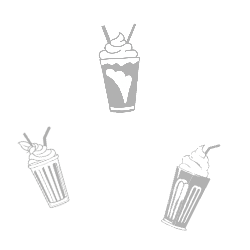
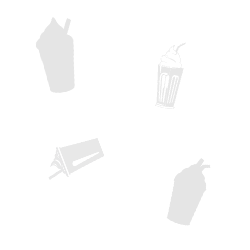
add about section

diff --git a/dist/main.js b/dist/main.js
@@ -1,1 +1,1 @@
-(()=>{"use strict";var n,e,t,r,o,a,i,c,s,l,p,u,f,d,h={208:(n,e,t)=>{t.d(e,{A:()=>f});var r=t(601),o=t.n(r),a=t(314),i=t.n(a),c=t(417),s=t.n(c),l=new URL(t(501),t.b),p=i()(o()),u=s()(l);p.push([n.id,`body {\n  margin: 0;\n  padding: 0;\n  box-sizing: border-box;\n  background-image: url(${u});\n  background-size: 10%;\n  display: flex;\n  flex-direction: column;\n  height: 100vh;\n  overflow-x: hidden;\n}\nheader {\n  background-color: #f57eb0;\n  flex: 1;\n  display: flex;\n  flex-direction: column;\n  justify-content: center;\n  align-items: center;\n}\nnav {\n  position: absolute;\n  display: flex;\n  justify-content: center;\n  align-items: center;\n  gap: 80px;\n  top: 170px;\n}\n\n.logo-container {\n  margin-bottom: 20px;\n}\n\nbutton {\n  font-family: "Gorditas", serif;\n  height: 70px;\n  width: 160px;\n  font-size: 38px;\n  border: none;\n  cursor: pointer;\n  background-color: #fff;\n  color: #eb4b8e;\n  border: 6px solid #ffa8a8;\n  transition-property: translate;\n  transition-duration: 0.1s;\n}\n\nbutton:hover {\n  translate: 0px -2px;\n  color: #e8156d;\n}\n\n#content {\n  font-family: "Gorditas", serif;\n  flex: 4;\n  display: flex;\n  flex-direction: column;\n}\n\n.hero {\n  margin-top: 120px;\n  width: 100vw;\n  height: 200px;\n  background-color: #f3a2d2;\n  display: flex;\n  align-items: center;\n  justify-content: center;\n  font-size: 40px;\n  color: #fff;\n}\n\n.hero > img:nth-child(2) {\n  /* border: 10px solid white; */\n  margin-left: 30px;\n  translate: 0px 40px;\n}\n\n.tilt-right {\n  transform: rotate(2deg);\n}\n\n.tilt-left {\n  transform: rotate(-3deg);\n}\n\n.rounded {\n  border-radius: 500px;\n}\n\n.promo-container {\n  background-color: #69ebfd;\n  height: 80px;\n  z-index: -1;\n  font-size: 20px;\n  margin-top: 60px;\n  display: flex;\n  align-items: center;\n  transform: rotate(-2deg);\n  width: 101vw;\n  translate: -10px 0px;\n}\n.promo-container > p {\n  flex: 1;\n  display: flex;\n  justify-content: center;\n  padding-left: 50px;\n}\n\n.promo-container::after {\n  content: ".";\n  display: block;\n  flex: 1;\n  color: #69ebfd;\n}\n`,""]);const f=p},314:n=>{n.exports=function(n){var e=[];return e.toString=function(){return this.map((function(e){var t="",r=void 0!==e[5];return e[4]&&(t+="@supports (".concat(e[4],") {")),e[2]&&(t+="@media ".concat(e[2]," {")),r&&(t+="@layer".concat(e[5].length>0?" ".concat(e[5]):""," {")),t+=n(e),r&&(t+="}"),e[2]&&(t+="}"),e[4]&&(t+="}"),t})).join("")},e.i=function(n,t,r,o,a){"string"==typeof n&&(n=[[null,n,void 0]]);var i={};if(r)for(var c=0;c<this.length;c++){var s=this[c][0];null!=s&&(i[s]=!0)}for(var l=0;l<n.length;l++){var p=[].concat(n[l]);r&&i[p[0]]||(void 0!==a&&(void 0===p[5]||(p[1]="@layer".concat(p[5].length>0?" ".concat(p[5]):""," {").concat(p[1],"}")),p[5]=a),t&&(p[2]?(p[1]="@media ".concat(p[2]," {").concat(p[1],"}"),p[2]=t):p[2]=t),o&&(p[4]?(p[1]="@supports (".concat(p[4],") {").concat(p[1],"}"),p[4]=o):p[4]="".concat(o)),e.push(p))}},e}},417:n=>{n.exports=function(n,e){return e||(e={}),n?(n=String(n.__esModule?n.default:n),/^['"].*['"]$/.test(n)&&(n=n.slice(1,-1)),e.hash&&(n+=e.hash),/["'() \t\n]|(%20)/.test(n)||e.needQuotes?'"'.concat(n.replace(/"/g,'\\"').replace(/\n/g,"\\n"),'"'):n):n}},601:n=>{n.exports=function(n){return n[1]}},72:n=>{var e=[];function t(n){for(var t=-1,r=0;r<e.length;r++)if(e[r].identifier===n){t=r;break}return t}function r(n,r){for(var a={},i=[],c=0;c<n.length;c++){var s=n[c],l=r.base?s[0]+r.base:s[0],p=a[l]||0,u="".concat(l," ").concat(p);a[l]=p+1;var f=t(u),d={css:s[1],media:s[2],sourceMap:s[3],supports:s[4],layer:s[5]};if(-1!==f)e[f].references++,e[f].updater(d);else{var h=o(d,r);r.byIndex=c,e.splice(c,0,{identifier:u,updater:h,references:1})}i.push(u)}return i}function o(n,e){var t=e.domAPI(e);return t.update(n),function(e){if(e){if(e.css===n.css&&e.media===n.media&&e.sourceMap===n.sourceMap&&e.supports===n.supports&&e.layer===n.layer)return;t.update(n=e)}else t.remove()}}n.exports=function(n,o){var a=r(n=n||[],o=o||{});return function(n){n=n||[];for(var i=0;i<a.length;i++){var c=t(a[i]);e[c].references--}for(var s=r(n,o),l=0;l<a.length;l++){var p=t(a[l]);0===e[p].references&&(e[p].updater(),e.splice(p,1))}a=s}}},659:n=>{var e={};n.exports=function(n,t){var r=function(n){if(void 0===e[n]){var t=document.querySelector(n);if(window.HTMLIFrameElement&&t instanceof window.HTMLIFrameElement)try{t=t.contentDocument.head}catch(n){t=null}e[n]=t}return e[n]}(n);if(!r)throw new Error("Couldn't find a style target. This probably means that the value for the 'insert' parameter is invalid.");r.appendChild(t)}},540:n=>{n.exports=function(n){var e=document.createElement("style");return n.setAttributes(e,n.attributes),n.insert(e,n.options),e}},56:(n,e,t)=>{n.exports=function(n){var e=t.nc;e&&n.setAttribute("nonce",e)}},825:n=>{n.exports=function(n){if("undefined"==typeof document)return{update:function(){},remove:function(){}};var e=n.insertStyleElement(n);return{update:function(t){!function(n,e,t){var r="";t.supports&&(r+="@supports (".concat(t.supports,") {")),t.media&&(r+="@media ".concat(t.media," {"));var o=void 0!==t.layer;o&&(r+="@layer".concat(t.layer.length>0?" ".concat(t.layer):""," {")),r+=t.css,o&&(r+="}"),t.media&&(r+="}"),t.supports&&(r+="}");var a=t.sourceMap;a&&"undefined"!=typeof btoa&&(r+="\n/*# sourceMappingURL=data:application/json;base64,".concat(btoa(unescape(encodeURIComponent(JSON.stringify(a))))," */")),e.styleTagTransform(r,n,e.options)}(e,n,t)},remove:function(){!function(n){if(null===n.parentNode)return!1;n.parentNode.removeChild(n)}(e)}}}},113:n=>{n.exports=function(n,e){if(e.styleSheet)e.styleSheet.cssText=n;else{for(;e.firstChild;)e.removeChild(e.firstChild);e.appendChild(document.createTextNode(n))}}},501:(n,e,t)=>{n.exports=t.p+"ef5ad078cd9a8e47fb3a.png"}},m={};function g(n){var e=m[n];if(void 0!==e)return e.exports;var t=m[n]={id:n,exports:{}};return h[n](t,t.exports,g),t.exports}g.m=h,g.n=n=>{var e=n&&n.__esModule?()=>n.default:()=>n;return g.d(e,{a:e}),e},g.d=(n,e)=>{for(var t in e)g.o(e,t)&&!g.o(n,t)&&Object.defineProperty(n,t,{enumerable:!0,get:e[t]})},g.g=function(){if("object"==typeof globalThis)return globalThis;try{return this||new Function("return this")()}catch(n){if("object"==typeof window)return window}}(),g.o=(n,e)=>Object.prototype.hasOwnProperty.call(n,e),(()=>{var n;g.g.importScripts&&(n=g.g.location+"");var e=g.g.document;if(!n&&e&&(e.currentScript&&(n=e.currentScript.src),!n)){var t=e.getElementsByTagName("script");if(t.length)for(var r=t.length-1;r>-1&&(!n||!/^http(s?):/.test(n));)n=t[r--].src}if(!n)throw new Error("Automatic publicPath is not supported in this browser");n=n.replace(/#.*$/,"").replace(/\?.*$/,"").replace(/\/[^\/]+$/,"/"),g.p=n})(),g.b=document.baseURI||self.location.href,g.nc=void 0,n=g(72),e=g.n(n),t=g(825),r=g.n(t),o=g(659),a=g.n(o),i=g(56),c=g.n(i),s=g(540),l=g.n(s),p=g(113),u=g.n(p),f=g(208),(d={}).styleTagTransform=u(),d.setAttributes=c(),d.insert=a().bind(null,"head"),d.domAPI=r(),d.insertStyleElement=l(),e()(f.A,d),f.A&&f.A.locals&&f.A.locals,console.log("test 2")})();
+(()=>{"use strict";var n,e,t,r,o,a,i,c,s,p,l,d,u,f,g={208:(n,e,t)=>{t.d(e,{A:()=>g});var r=t(601),o=t.n(r),a=t(314),i=t.n(a),c=t(417),s=t.n(c),p=new URL(t(555),t.b),l=new URL(t(583),t.b),d=i()(o()),u=s()(p),f=s()(l);d.push([n.id,`body {\n  margin: 0;\n  padding: 0;\n  box-sizing: border-box;\n  /* background-image: url(images/background-tile.png);\n  background-size: 14%; */\n  display: flex;\n  flex-direction: column;\n  height: 100vh;\n  overflow-x: hidden;\n}\nheader {\n  background-image: url(${u});\n  background-size: 14%;\n  background-color: #f57eb0;\n  flex: 1;\n  display: flex;\n  flex-direction: column;\n  justify-content: center;\n  align-items: center;\n}\nnav {\n  position: absolute;\n  display: flex;\n  justify-content: center;\n  align-items: center;\n  gap: 80px;\n  top: 170px;\n}\n\n.logo-container {\n  margin-bottom: 20px;\n}\n\nbutton {\n  font-family: "Gorditas", serif;\n  height: 70px;\n  width: 160px;\n  font-size: 38px;\n  border: none;\n  cursor: pointer;\n  background-color: #fff;\n  color: #eb4b8e;\n  border: 6px solid #ffa8a8;\n  transition-property: translate;\n  transition-duration: 0.1s;\n}\n\nbutton:hover {\n  translate: 0px -2px;\n  color: #e8156d;\n}\n\n#content {\n  font-family: "Gorditas", serif;\n  flex: 4;\n  display: flex;\n  flex-direction: column;\n  background-image: url(${f});\n  background-size: 100%;\n  background-position: 0px -520px;\n}\n\n.hero {\n  margin-top: 120px;\n  width: 100vw;\n  height: 200px;\n  background-color: hsla(324, 77%, 79%, 0.8);\n  display: flex;\n  align-items: center;\n  justify-content: center;\n  font-size: 40px;\n  color: #fff;\n}\n\n.hero > img:nth-child(2) {\n  /* border: 10px solid white; */\n  margin-left: 30px;\n  translate: 0px 40px;\n  z-index: 2;\n}\n\n.tilt-right {\n  transform: rotate(2deg);\n}\n\n.tilt-left {\n  transform: rotate(-3deg);\n}\n\n.rounded {\n  border-radius: 500px;\n}\n\n.promo-container {\n  background-color: #69ebfd;\n  height: 80px;\n  font-size: 20px;\n  margin-top: 60px;\n  display: flex;\n  align-items: center;\n  transform: rotate(-2deg);\n  width: 101vw;\n  translate: -10px 0px;\n}\n.promo-container > p {\n  flex: 1;\n  display: flex;\n  justify-content: center;\n  padding-left: 50px;\n}\n\n.promo-container::after {\n  content: ".";\n  display: block;\n  flex: 1;\n  color: #69ebfd;\n}\n\n.about-container {\n  margin-top: 100px;\n  width: 100vw;\n  height: 350px;\n  background-color: hsla(324, 77%, 79%, 0.9);\n  display: flex;\n  align-items: center;\n  justify-content: center;\n  font-size: 18px;\n  color: #191919;\n  font-family: "Gochi Hand", cursive;\n}\n.about-container > img {\n  z-index: 2;\n}\n\n.about-container > p {\n  width: 50vw;\n  margin: 0px 60px;\n  z-index: 2;\n  translate: 0px -20px;\n}\n\n.paragraph-bg {\n  width: 0px;\n  height: 200px;\n  position: absolute;\n  border-left: 100vw solid #ffcaea;\n  border-top: 5px solid transparent;\n  border-bottom: 60px solid transparent;\n  border-right: none;\n  z-index: 1;\n}\n`,""]);const g=d},314:n=>{n.exports=function(n){var e=[];return e.toString=function(){return this.map((function(e){var t="",r=void 0!==e[5];return e[4]&&(t+="@supports (".concat(e[4],") {")),e[2]&&(t+="@media ".concat(e[2]," {")),r&&(t+="@layer".concat(e[5].length>0?" ".concat(e[5]):""," {")),t+=n(e),r&&(t+="}"),e[2]&&(t+="}"),e[4]&&(t+="}"),t})).join("")},e.i=function(n,t,r,o,a){"string"==typeof n&&(n=[[null,n,void 0]]);var i={};if(r)for(var c=0;c<this.length;c++){var s=this[c][0];null!=s&&(i[s]=!0)}for(var p=0;p<n.length;p++){var l=[].concat(n[p]);r&&i[l[0]]||(void 0!==a&&(void 0===l[5]||(l[1]="@layer".concat(l[5].length>0?" ".concat(l[5]):""," {").concat(l[1],"}")),l[5]=a),t&&(l[2]?(l[1]="@media ".concat(l[2]," {").concat(l[1],"}"),l[2]=t):l[2]=t),o&&(l[4]?(l[1]="@supports (".concat(l[4],") {").concat(l[1],"}"),l[4]=o):l[4]="".concat(o)),e.push(l))}},e}},417:n=>{n.exports=function(n,e){return e||(e={}),n?(n=String(n.__esModule?n.default:n),/^['"].*['"]$/.test(n)&&(n=n.slice(1,-1)),e.hash&&(n+=e.hash),/["'() \t\n]|(%20)/.test(n)||e.needQuotes?'"'.concat(n.replace(/"/g,'\\"').replace(/\n/g,"\\n"),'"'):n):n}},601:n=>{n.exports=function(n){return n[1]}},72:n=>{var e=[];function t(n){for(var t=-1,r=0;r<e.length;r++)if(e[r].identifier===n){t=r;break}return t}function r(n,r){for(var a={},i=[],c=0;c<n.length;c++){var s=n[c],p=r.base?s[0]+r.base:s[0],l=a[p]||0,d="".concat(p," ").concat(l);a[p]=l+1;var u=t(d),f={css:s[1],media:s[2],sourceMap:s[3],supports:s[4],layer:s[5]};if(-1!==u)e[u].references++,e[u].updater(f);else{var g=o(f,r);r.byIndex=c,e.splice(c,0,{identifier:d,updater:g,references:1})}i.push(d)}return i}function o(n,e){var t=e.domAPI(e);return t.update(n),function(e){if(e){if(e.css===n.css&&e.media===n.media&&e.sourceMap===n.sourceMap&&e.supports===n.supports&&e.layer===n.layer)return;t.update(n=e)}else t.remove()}}n.exports=function(n,o){var a=r(n=n||[],o=o||{});return function(n){n=n||[];for(var i=0;i<a.length;i++){var c=t(a[i]);e[c].references--}for(var s=r(n,o),p=0;p<a.length;p++){var l=t(a[p]);0===e[l].references&&(e[l].updater(),e.splice(l,1))}a=s}}},659:n=>{var e={};n.exports=function(n,t){var r=function(n){if(void 0===e[n]){var t=document.querySelector(n);if(window.HTMLIFrameElement&&t instanceof window.HTMLIFrameElement)try{t=t.contentDocument.head}catch(n){t=null}e[n]=t}return e[n]}(n);if(!r)throw new Error("Couldn't find a style target. This probably means that the value for the 'insert' parameter is invalid.");r.appendChild(t)}},540:n=>{n.exports=function(n){var e=document.createElement("style");return n.setAttributes(e,n.attributes),n.insert(e,n.options),e}},56:(n,e,t)=>{n.exports=function(n){var e=t.nc;e&&n.setAttribute("nonce",e)}},825:n=>{n.exports=function(n){if("undefined"==typeof document)return{update:function(){},remove:function(){}};var e=n.insertStyleElement(n);return{update:function(t){!function(n,e,t){var r="";t.supports&&(r+="@supports (".concat(t.supports,") {")),t.media&&(r+="@media ".concat(t.media," {"));var o=void 0!==t.layer;o&&(r+="@layer".concat(t.layer.length>0?" ".concat(t.layer):""," {")),r+=t.css,o&&(r+="}"),t.media&&(r+="}"),t.supports&&(r+="}");var a=t.sourceMap;a&&"undefined"!=typeof btoa&&(r+="\n/*# sourceMappingURL=data:application/json;base64,".concat(btoa(unescape(encodeURIComponent(JSON.stringify(a))))," */")),e.styleTagTransform(r,n,e.options)}(e,n,t)},remove:function(){!function(n){if(null===n.parentNode)return!1;n.parentNode.removeChild(n)}(e)}}}},113:n=>{n.exports=function(n,e){if(e.styleSheet)e.styleSheet.cssText=n;else{for(;e.firstChild;)e.removeChild(e.firstChild);e.appendChild(document.createTextNode(n))}}},555:(n,e,t)=>{n.exports=t.p+"89f0903982cbf6bb16b6.png"},583:(n,e,t)=>{n.exports=t.p+"76fd62aae3577296d760.webp"}},h={};function x(n){var e=h[n];if(void 0!==e)return e.exports;var t=h[n]={id:n,exports:{}};return g[n](t,t.exports,x),t.exports}x.m=g,x.n=n=>{var e=n&&n.__esModule?()=>n.default:()=>n;return x.d(e,{a:e}),e},x.d=(n,e)=>{for(var t in e)x.o(e,t)&&!x.o(n,t)&&Object.defineProperty(n,t,{enumerable:!0,get:e[t]})},x.g=function(){if("object"==typeof globalThis)return globalThis;try{return this||new Function("return this")()}catch(n){if("object"==typeof window)return window}}(),x.o=(n,e)=>Object.prototype.hasOwnProperty.call(n,e),(()=>{var n;x.g.importScripts&&(n=x.g.location+"");var e=x.g.document;if(!n&&e&&(e.currentScript&&(n=e.currentScript.src),!n)){var t=e.getElementsByTagName("script");if(t.length)for(var r=t.length-1;r>-1&&(!n||!/^http(s?):/.test(n));)n=t[r--].src}if(!n)throw new Error("Automatic publicPath is not supported in this browser");n=n.replace(/#.*$/,"").replace(/\?.*$/,"").replace(/\/[^\/]+$/,"/"),x.p=n})(),x.b=document.baseURI||self.location.href,x.nc=void 0,n=x(72),e=x.n(n),t=x(825),r=x.n(t),o=x(659),a=x.n(o),i=x(56),c=x.n(i),s=x(540),p=x.n(s),l=x(113),d=x.n(l),u=x(208),(f={}).styleTagTransform=d(),f.setAttributes=c(),f.insert=a().bind(null,"head"),f.domAPI=r(),f.insertStyleElement=p(),e()(u.A,f),u.A&&u.A.locals&&u.A.locals,console.log("test 2")})();

diff --git a/src/style.css b/src/style.css
@@ -2,14 +2,16 @@ body {
   margin: 0;
   padding: 0;
   box-sizing: border-box;
-  background-image: url(images/background-tile.png);
-  background-size: 10%;
+  /* background-image: url(images/background-tile.png);
+  background-size: 14%; */
   display: flex;
   flex-direction: column;
   height: 100vh;
   overflow-x: hidden;
 }
 header {
+  background-image: url(images/background-tile-header.png);
+  background-size: 14%;
   background-color: #f57eb0;
   flex: 1;
   display: flex;
@@ -54,13 +56,16 @@ button:hover {
   flex: 4;
   display: flex;
   flex-direction: column;
+  background-image: url(images/hero.webp);
+  background-size: 100%;
+  background-position: 0px -520px;
 }
 
 .hero {
   margin-top: 120px;
   width: 100vw;
   height: 200px;
-  background-color: #f3a2d2;
+  background-color: hsla(324, 77%, 79%, 0.8);
   display: flex;
   align-items: center;
   justify-content: center;
@@ -72,6 +77,7 @@ button:hover {
   /* border: 10px solid white; */
   margin-left: 30px;
   translate: 0px 40px;
+  z-index: 2;
 }
 
 .tilt-right {
@@ -89,7 +95,6 @@ button:hover {
 .promo-container {
   background-color: #69ebfd;
   height: 80px;
-  z-index: -1;
   font-size: 20px;
   margin-top: 60px;
   display: flex;
@@ -110,4 +115,38 @@ button:hover {
   display: block;
   flex: 1;
   color: #69ebfd;
+}
+
+.about-container {
+  margin-top: 100px;
+  width: 100vw;
+  height: 350px;
+  background-color: hsla(324, 77%, 79%, 0.9);
+  display: flex;
+  align-items: center;
+  justify-content: center;
+  font-size: 18px;
+  color: #191919;
+  font-family: "Gochi Hand", cursive;
+}
+.about-container > img {
+  z-index: 2;
+}
+
+.about-container > p {
+  width: 50vw;
+  margin: 0px 60px;
+  z-index: 2;
+  translate: 0px -20px;
+}
+
+.paragraph-bg {
+  width: 0px;
+  height: 200px;
+  position: absolute;
+  border-left: 100vw solid #ffcaea;
+  border-top: 5px solid transparent;
+  border-bottom: 60px solid transparent;
+  border-right: none;
+  z-index: 1;
 }

diff --git a/dist/index.html b/dist/index.html
@@ -12,6 +12,10 @@
       href="https://fonts.googleapis.com/css2?family=Gorditas:wght@400;700&display=swap"
       rel="stylesheet"
     />
+    <link
+      href="https://fonts.googleapis.com/css2?family=Gochi+Hand&display=swap"
+      rel="stylesheet"
+    />
   </head>
   <body>
     <header>
@@ -36,7 +40,7 @@
       </nav>
     </header>
     <div id="content">
-      <div class="hero">
+      <!-- <div class="hero">
         <img src="/src/images/promo.svg" alt="promo text" height="150px" />
         <img
           src="/src/images/shake_01.png"
@@ -48,6 +52,24 @@
 
       <div class="promo-container">
         <p>Order 1, get 5 free! Only today! (and every other day!!!)</p>
+      </div> -->
+
+      <div class="about-container">
+        <img
+          src="/src/images/bertha.png"
+          alt="bertha"
+          height="400px"
+          class="rounded"
+        />
+        <p>
+          Welcome to Big Bertha's Milkshake Emporium, where the shakes are
+          legendary and the laughs are endless! Since 1926, we've been dishing
+          out flavors wilder than a rodeo clown's outfit. <br /><br />
+          From classic vanilla to shakes that'll make your taste buds do the
+          cha-cha, join the flavor fiesta today and let's shake things up
+          together!
+        </p>
+        <div class="paragraph-bg"></div>
       </div>
     </div>
   </body>

diff --git a/webpack.config.js b/webpack.config.js
@@ -12,6 +12,10 @@ module.exports = {
         test: /\.css$/i,
         use: ["style-loader", "css-loader"],
       },
+      {
+        test: /\.(png|svg|jpg|jpeg|gif)$/i,
+        type: "asset/resource",
+      },
     ],
   },
 };
